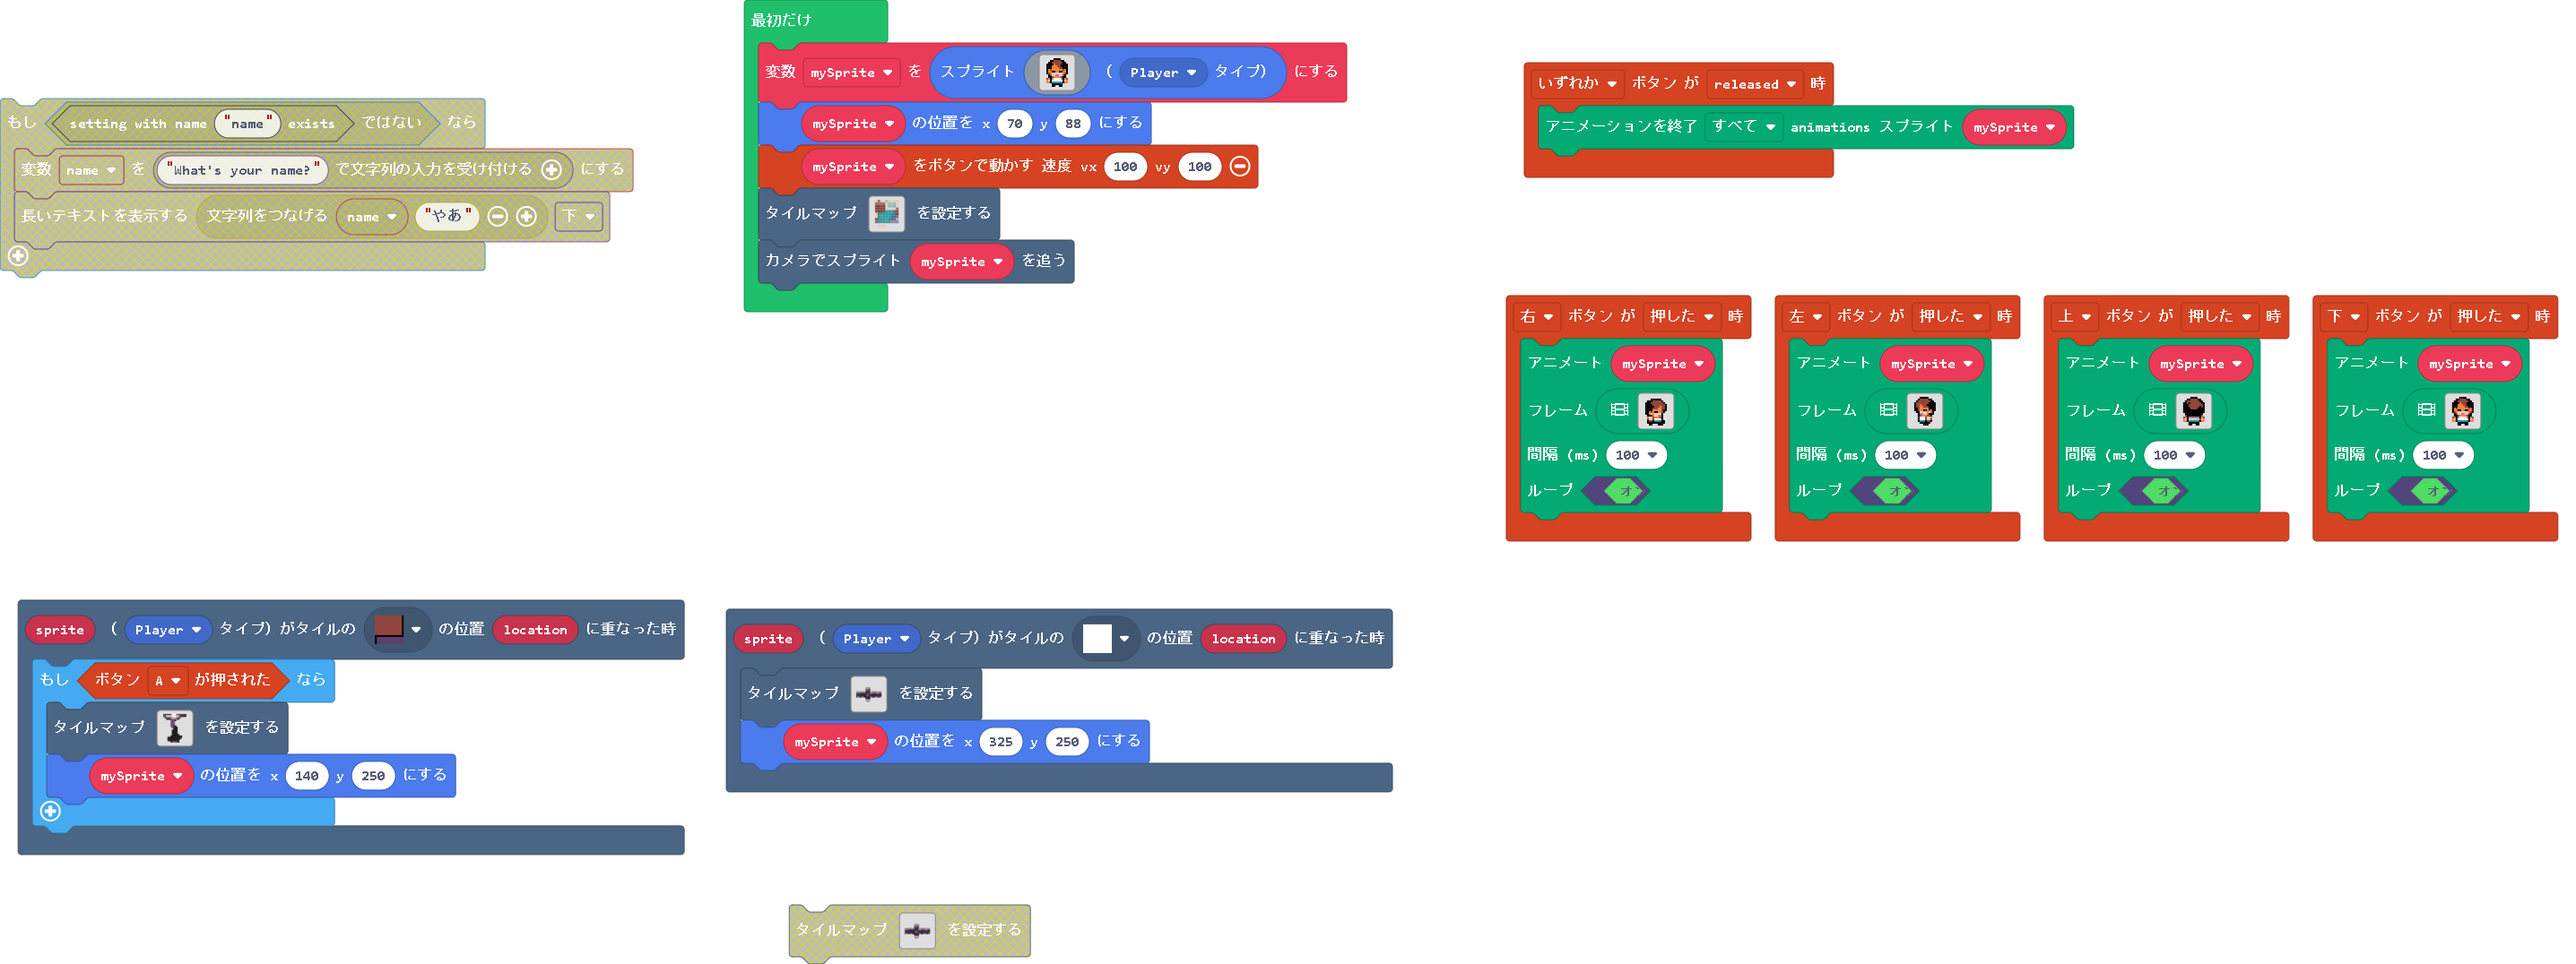
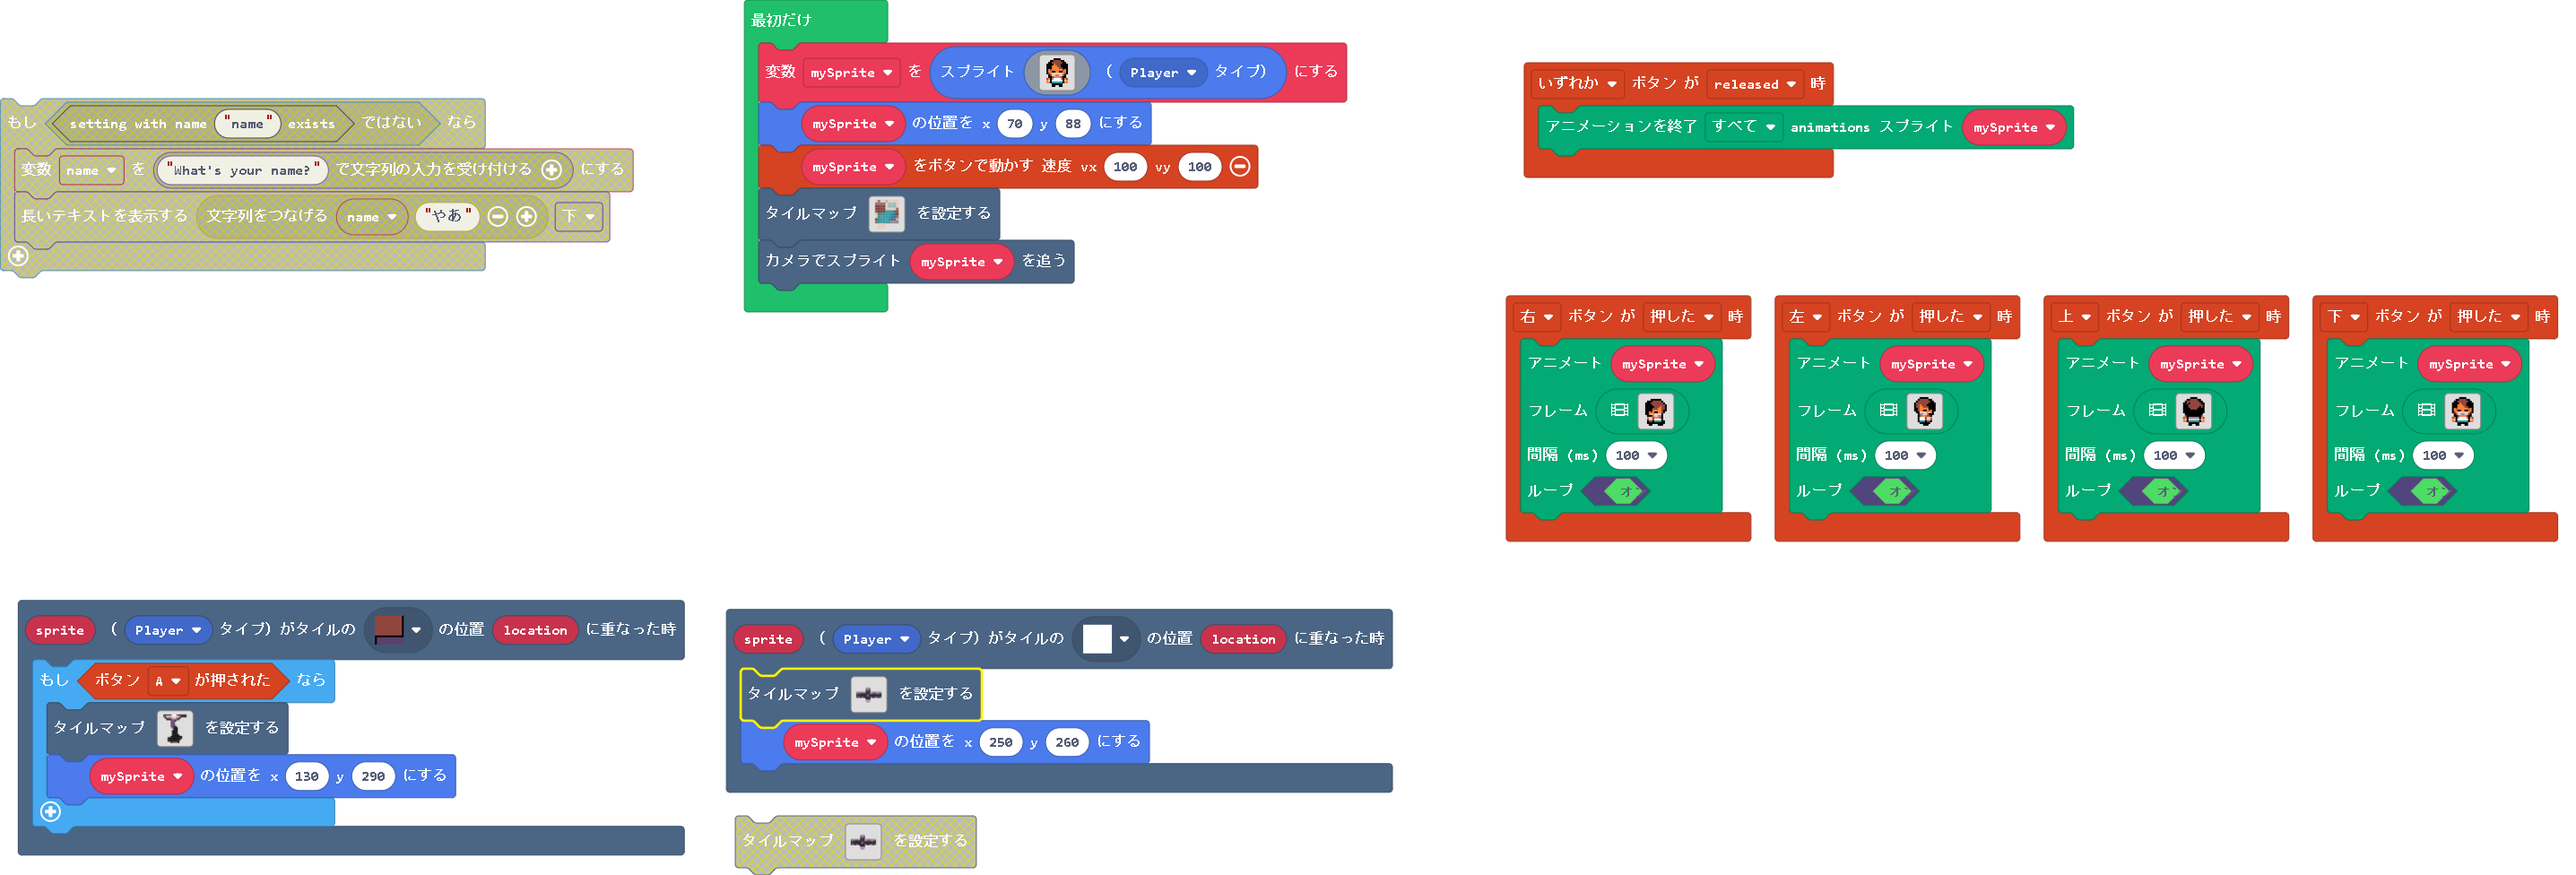
更新 main.blocks, main.ts, tilemap.g.jres, tilemap.g.ts

diff --git a/tilemap.g.ts b/tilemap.g.ts
@@ -221,17 +221,11 @@ namespace myTiles {
     //% fixedInstance jres blockIdentity=images._tile
     export const tile23 = image.ofBuffer(hex``);
     //% fixedInstance jres blockIdentity=images._tile
-    export const tile110 = image.ofBuffer(hex``);
-    //% fixedInstance jres blockIdentity=images._tile
-    export const tile109 = image.ofBuffer(hex``);
-    //% fixedInstance jres blockIdentity=images._tile
     export const tile111 = image.ofBuffer(hex``);
     //% fixedInstance jres blockIdentity=images._tile
     export const tile112 = image.ofBuffer(hex``);
     //% fixedInstance jres blockIdentity=images._tile
     export const tile115 = image.ofBuffer(hex``);
-    //% fixedInstance jres blockIdentity=images._tile
-    export const tile116 = image.ofBuffer(hex``);
     //% fixedInstance jres blockIdentity=images._tile
     export const tile114 = image.ofBuffer(hex``);
     //% fixedInstance jres blockIdentity=images._tile
@@ -250,6 +244,24 @@ namespace myTiles {
     export const tile123 = image.ofBuffer(hex``);
     //% fixedInstance jres blockIdentity=images._tile
     export const tile124 = image.ofBuffer(hex``);
+    //% fixedInstance jres blockIdentity=images._tile
+    export const tile116 = image.ofBuffer(hex``);
+    //% fixedInstance jres blockIdentity=images._tile
+    export const tile109 = image.ofBuffer(hex``);
+    //% fixedInstance jres blockIdentity=images._tile
+    export const tile110 = image.ofBuffer(hex``);
+    //% fixedInstance jres blockIdentity=images._tile
+    export const tile125 = image.ofBuffer(hex``);
+    //% fixedInstance jres blockIdentity=images._tile
+    export const tile126 = image.ofBuffer(hex``);
+    //% fixedInstance jres blockIdentity=images._tile
+    export const tile127 = image.ofBuffer(hex``);
+    //% fixedInstance jres blockIdentity=images._tile
+    export const tile128 = image.ofBuffer(hex``);
+    //% fixedInstance jres blockIdentity=images._tile
+    export const tile129 = image.ofBuffer(hex``);
+    //% fixedInstance jres blockIdentity=images._tile
+    export const tile130 = image.ofBuffer(hex``);
 
     helpers._registerFactory("tilemap", function(name: string) {
         switch(helpers.stringTrim(name)) {
@@ -405,7 +417,7 @@ namespace myTiles {
 . . . . . . . . . . . . . . . . 
 `, [myTiles.transparency16], TileScale.Sixteen);
             case "entryway":
[2 lines of base64/hex data omitted]
 222222222222222222222222222222222
 222222222222222222222222222222222
 222222222222222222222222222222222
@@ -424,9 +436,9 @@ namespace myTiles {
 2222222222222.....222222222222222
 2222222222222.....222222222222222
 222222222222222222222222222222222
-`, [myTiles.transparency16,myTiles.tile14,myTiles.tile79,myTiles.tile82,myTiles.tile83,myTiles.tile84,myTiles.tile85,myTiles.tile86,myTiles.tile87,myTiles.tile88,myTiles.tile89,myTiles.tile91,myTiles.tile92,myTiles.tile93,myTiles.tile94,myTiles.tile95,myTiles.tile96,myTiles.tile97,myTiles.tile98,myTiles.tile99,myTiles.tile100,myTiles.tile102,myTiles.tile101,myTiles.tile103,myTiles.tile104,myTiles.tile105,myTiles.tile49,myTiles.tile50,myTiles.tile106,myTiles.tile107,myTiles.tile108,myTiles.tile109,myTiles.tile110,myTiles.tile111,myTiles.tile112,myTiles.tile113,myTiles.tile115,myTiles.tile116,myTiles.tile114,myTiles.tile117,myTiles.tile118,myTiles.tile119,myTiles.tile120,myTiles.tile121], TileScale.Sixteen);
+`, [myTiles.transparency16,myTiles.tile14,myTiles.tile79,myTiles.tile82,myTiles.tile83,myTiles.tile84,myTiles.tile85,myTiles.tile86,myTiles.tile87,myTiles.tile88,myTiles.tile89,myTiles.tile91,myTiles.tile92,myTiles.tile93,myTiles.tile94,myTiles.tile95,myTiles.tile96,myTiles.tile97,myTiles.tile98,myTiles.tile99,myTiles.tile100,myTiles.tile102,myTiles.tile101,myTiles.tile103,myTiles.tile104,myTiles.tile105,myTiles.tile49,myTiles.tile50,myTiles.tile106,myTiles.tile107,myTiles.tile108,myTiles.tile109,myTiles.tile110,myTiles.tile111,myTiles.tile112,myTiles.tile113,myTiles.tile115,myTiles.tile116,myTiles.tile114,myTiles.tile117,myTiles.tile118,myTiles.tile119,myTiles.tile120,myTiles.tile121,myTiles.tile125,myTiles.tile126,myTiles.tile127,myTiles.tile128], TileScale.Sixteen);
             case "entryway-1":
[2 lines of base64/hex data omitted]
 222222222222222222222222222222222
 222222222222222222222222222222222
 222222222222222222222222222222222
@@ -445,7 +457,7 @@ namespace myTiles {
 2222222222222.....222222222222222
 2222222222222.....222222222222222
 222222222222222222222222222222222
-`, [myTiles.transparency16,myTiles.tile14,myTiles.tile79,myTiles.tile82,myTiles.tile83,myTiles.tile84,myTiles.tile85,myTiles.tile86,myTiles.tile90,myTiles.tile87,myTiles.tile88,myTiles.tile91,myTiles.tile92,myTiles.tile93,myTiles.tile94,myTiles.tile95,myTiles.tile96,myTiles.tile97,myTiles.tile98,myTiles.tile99,myTiles.tile100,myTiles.tile101,myTiles.tile102,myTiles.tile103,myTiles.tile104,myTiles.tile105,myTiles.tile49,myTiles.tile50,myTiles.tile106,myTiles.tile107,myTiles.tile108,myTiles.tile113,myTiles.tile110,myTiles.tile109,myTiles.tile111,myTiles.tile112,myTiles.tile115,myTiles.tile116,myTiles.tile118,myTiles.tile119,myTiles.tile120,myTiles.tile121], TileScale.Sixteen);
+`, [myTiles.transparency16,myTiles.tile14,myTiles.tile79,myTiles.tile82,myTiles.tile83,myTiles.tile84,myTiles.tile85,myTiles.tile86,myTiles.tile90,myTiles.tile87,myTiles.tile88,myTiles.tile91,myTiles.tile92,myTiles.tile93,myTiles.tile94,myTiles.tile95,myTiles.tile96,myTiles.tile97,myTiles.tile98,myTiles.tile99,myTiles.tile100,myTiles.tile101,myTiles.tile102,myTiles.tile103,myTiles.tile104,myTiles.tile105,myTiles.tile49,myTiles.tile50,myTiles.tile106,myTiles.tile107,myTiles.tile108,myTiles.tile113,myTiles.tile110,myTiles.tile109,myTiles.tile111,myTiles.tile112,myTiles.tile115,myTiles.tile116,myTiles.tile118,myTiles.tile119,myTiles.tile120,myTiles.tile121,myTiles.tile125,myTiles.tile126,myTiles.tile127,myTiles.tile128], TileScale.Sixteen);
         }
         return null;
     })
@@ -671,18 +683,12 @@ namespace myTiles {
             case "tile28":return tile28;
             case "myTile21":
             case "tile23":return tile23;
-            case "myTile108":
-            case "tile110":return tile110;
-            case "myTile107":
-            case "tile109":return tile109;
             case "myTile109":
             case "tile111":return tile111;
             case "myTile110":
             case "tile112":return tile112;
             case "myTile113":
             case "tile115":return tile115;
-            case "myTile114":
-            case "tile116":return tile116;
             case "myTile112":
             case "tile114":return tile114;
             case "myTile115":
@@ -701,6 +707,24 @@ namespace myTiles {
             case "tile123":return tile123;
             case "myTile122":
             case "tile124":return tile124;
+            case "myTile114":
+            case "tile116":return tile116;
+            case "myTile107":
+            case "tile109":return tile109;
+            case "myTile108":
+            case "tile110":return tile110;
+            case "myTile123":
+            case "tile125":return tile125;
+            case "myTile124":
+            case "tile126":return tile126;
+            case "myTile125":
+            case "tile127":return tile127;
+            case "myTile126":
+            case "tile128":return tile128;
+            case "myTile127":
+            case "tile129":return tile129;
+            case "myTile128":
+            case "tile130":return tile130;
         }
         return null;
     })

diff --git a/main.ts b/main.ts
@@ -181,12 +181,12 @@ controller.left.onEvent(ControllerButtonEvent.Pressed, function () {
 scene.onOverlapTile(SpriteKind.Player, assets.tile`myTile36`, function (sprite, location) {
     if (controller.A.isPressed()) {
         tiles.setTilemap(tilemap`aisle`)
-        mySprite.setPosition(140, 250)
+        mySprite.setPosition(130, 290)
     }
 })
 scene.onOverlapTile(SpriteKind.Player, assets.tile`myTile61`, function (sprite, location) {
     tiles.setTilemap(tilemap`entryway`)
-    mySprite.setPosition(325, 250)
+    mySprite.setPosition(250, 260)
 })
 controller.up.onEvent(ControllerButtonEvent.Pressed, function () {
     animation.runImageAnimation(
